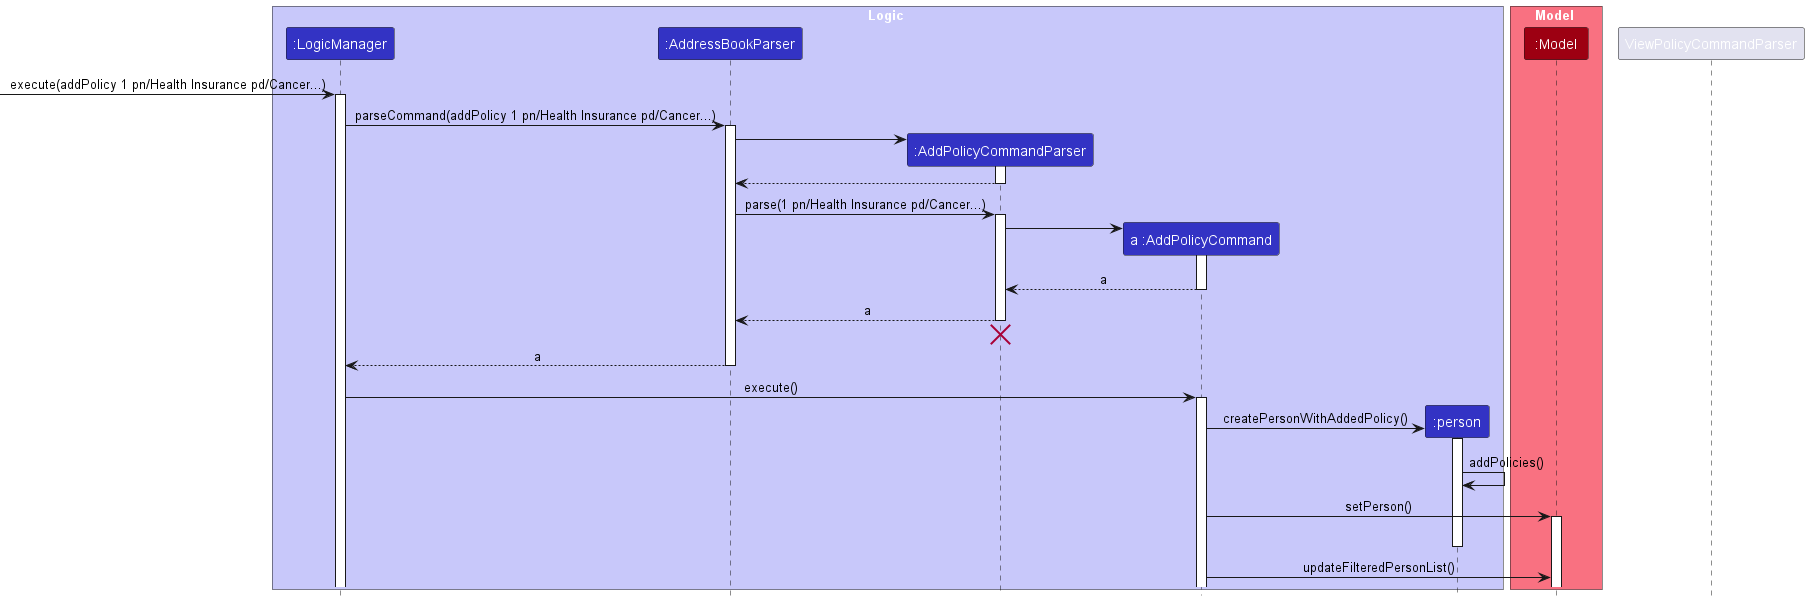
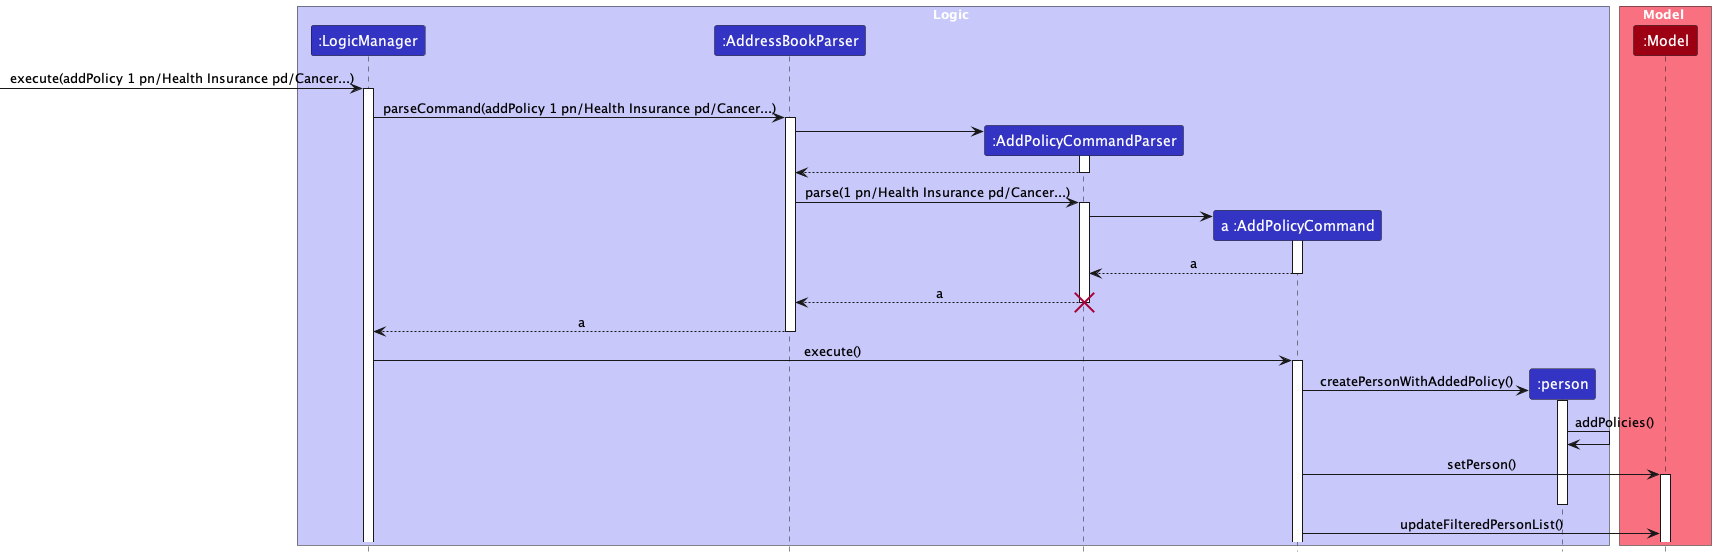
Edited problematic diagrams, updated PPP

Changed region(s): [[0.0, 0.0, 1.0, 1.0]]

diff --git a/docs/team/luahjunyang.md b/docs/team/luahjunyang.md
@@ -51,6 +51,10 @@ Given below are my contributions to the project.
   - Developer Guide:
     - Added terms Tag, Client Priority, Usage Instructions to the Glossary [\#39](https://github.com/AY2324S1-CS2103-W14-1/tp/pull/39)
     - Added documentation for the `filter` tag command, including a sequence diagram [\#92](https://github.com/AY2324S1-CS2103-W14-1/tp/pull/92)
+    - Added documentation for the `addTag`, `addPolicy`, `removePolicy` commands, including sequence and activity diagrams [\#228](https://github.com/AY2324S1-CS2103-W14-1/tp/pull/228)
+    - Added planned enhancements appendix [\#228](https://github.com/AY2324S1-CS2103-W14-1/tp/pull/228)
+    - Added sequence and activity diagrams for `deleteTag`, `filterTag`, `addPolicy`, `removePolicy` commands [\#233](https://github.com/AY2324S1-CS2103-W14-1/tp/pull/233)
+    - Added documentation and diagrams for `filterPolicy` and `ToggleMode` commands [\#235](https://github.com/AY2324S1-CS2103-W14-1/tp/pull/235)
 
 - **Community**:
   - Reviewed 14 Pull Requests and provided relevant feedback

diff --git a/docs/DeveloperGuide.md b/docs/DeveloperGuide.md
@@ -504,7 +504,7 @@ The following activity diagram shows how the Toggle Mode operation works:
 <img src="diagrams/ToggleModeActivityDiagram.png">
 
 The following sequence diagram shows how the Toggle Mode operation works:
-<img src="diagrams/ToggleModeSequenceDiagram.png" width = "650">
+<img src="diagrams/ToggleModeSequenceDiagram.png" width = "500">
 
 Return to [Table Of Contents](#table-of-contents)
 
